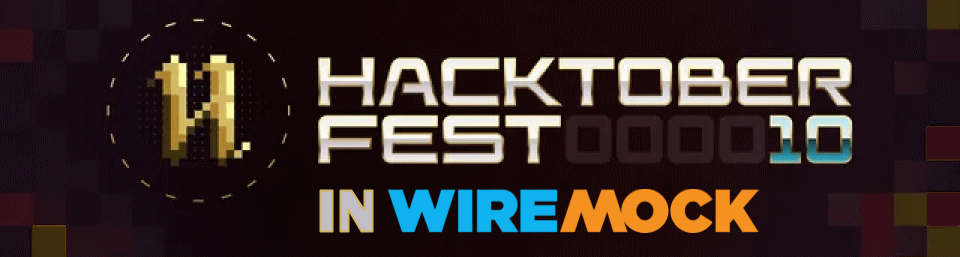
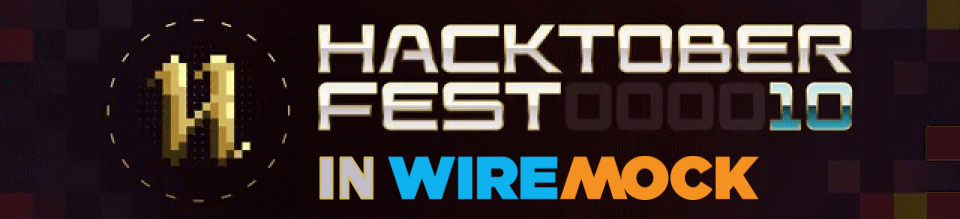
Add support for page specific opengraphs

diff --git a/_includes/seo.html b/_includes/seo.html
@@ -69,7 +69,10 @@
   <meta name="twitter:description" content="{{ seo_description }}">
   <meta name="twitter:url" content="{{ canonical_url }}">
 
-  {% if page.header.image %}
+  {% if page.og_image %}
+    <meta name="twitter:card" content="summary_large_image">
+    <meta name="twitter:image" content="{{ page.og_image | prepend: '/images/'' | absolute_url }}">
+  {% elsif page.header.image %}
     <meta name="twitter:card" content="summary_large_image">
     <meta name="twitter:image" content="{% if page.header.image contains "://" %}{{ page.header.image }}{% else %}{{ page.header.image | prepend: "/images/" | absolute_url }}{% endif %}">
   {% else %}
@@ -94,7 +97,9 @@
   {% endif %}
 {% endif %}
 
-{% if page.header.image %}
+{% if page.og_image %}
+  <meta property="og:image" content="{{ page.og_image | prepend: "/images/" | absolute_url }}">
+{% elsif page.header.image %}
   <meta property="og:image" content="{% if page.header.image contains "://" %}{{ page.header.image }}{% else %}{{ page.header.image | prepend: "/images/" | absolute_url }}{% endif %}">
 {% elsif page.header.overlay_image %}
   <meta property="og:image" content="{% if page.header.overlay_image contains "://" %}{{ page.header.overlay_image }}{% else %}{{ page.header.overlay_image | prepend: "/images/" | absolute_url }}{% endif %}">

diff --git a/events/hacktoberfest.md b/events/hacktoberfest.md
@@ -2,6 +2,9 @@
 layout: single
 title: WireMock in Hacktoberfest
 meta_title: "Contribute to WireMock during Hacktoberfest 2023!"
+og_image: events/hacktoberfest/wiremock_hacktoberfest_opengraph.png
+header:
+  image: events/hacktoberfest/wiremock_hacktoberfest_header.png
 description: |
     Hacktoberfest is a month-long celebration of open source software which happens as a global online hackathon.
     This October, WireMock will participate, and we invite you to join us,
@@ -20,8 +23,6 @@ This October the WireMock project will join the 10th edition of this worldwide e
 Regardless of their experience and background, everyone can support open source by contributing changes.
 All contributors will receive special digital awards.
 In WireMock, we are also happy to offer special swag to the most active contributors to the WireMock open source ecosystem!
-
-![Hacktoberfest Header](/images/events/hacktoberfest/wiremock_hacktoberfest_header.png)
 
 ## Get Started
 
